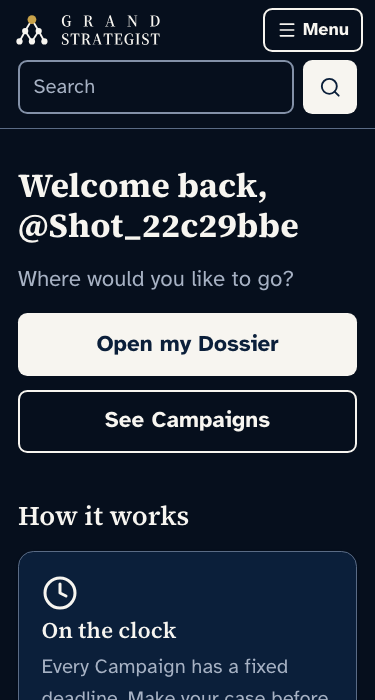
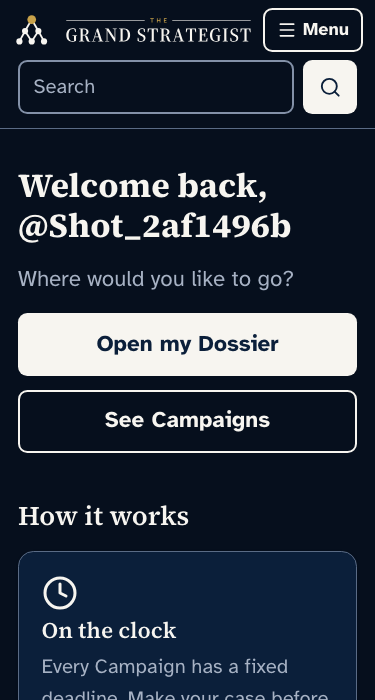
Mobile header: use the same full two-tier lockup as desktop
Sign in for visitors moves into the search row to make room. Stacked
lockup no longer used in the app.

Changed region(s): [[0.4107, 0.3, 0.792, 0.36], [0.1467, 0.0, 0.6747, 0.06], [0.0587, 0.03, 0.1173, 0.06]]

diff --git a/src/components/site-header.tsx b/src/components/site-header.tsx
@@ -28,9 +28,8 @@ export async function SiteHeader() {
       </a>
       <div className="mx-auto flex max-w-4xl items-center justify-between gap-2 px-[12px] py-[8px] lg:max-w-6xl lg:px-4 lg:py-3">
         <Link href="/" className="flex min-h-[44px] min-w-0 shrink items-center no-underline lg:min-h-12 lg:shrink-0 lg:whitespace-nowrap">
-          {/* Stacked lockup below lg (shrinks to fit narrow phones), full two-tier lockup from lg up. Only the visible one is in the accessibility tree. */}
-          <Image src="/brand/lockup-stacked.svg" alt="The Grand Strategist" width={152} height={40} priority unoptimized className="block h-[40px] w-auto max-w-full object-contain object-left lg:hidden" />
-          <Image src="/brand/lockup-full.svg" alt="The Grand Strategist" width={295} height={48} priority unoptimized className="hidden h-[34px] w-auto lg:block xl:h-[54px]" />
+          {/* The same two-tier lockup at every width; on narrow phones it shrinks to fit beside the Menu button. */}
+          <Image src="/brand/lockup-full.svg" alt="The Grand Strategist" width={295} height={48} priority unoptimized className="block h-[40px] w-auto max-w-full object-contain object-left lg:h-[34px] xl:h-[54px]" />
         </Link>
         <nav aria-label="Main" className="hidden lg:block">
           <ul className="-mx-2 flex flex-wrap items-center gap-x-1 gap-y-1">
@@ -75,11 +74,6 @@ export async function SiteHeader() {
           </ul>
         </nav>
         <div className="flex shrink-0 items-center gap-1 lg:hidden">
-          {viewer ? null : (
-            <NavLink href="/login" className="min-h-[44px] px-[8px] text-[18px]">
-              Sign in
-            </NavLink>
-          )}
           <MobileNav>
             <nav aria-label="Main">
               <ul className="flex flex-col gap-1 p-2">
@@ -122,8 +116,13 @@ export async function SiteHeader() {
           </MobileNav>
         </div>
       </div>
-      <div className="mx-auto max-w-4xl px-4 pb-3 lg:max-w-6xl">
-        <form role="search" action="/search" className="flex gap-2 lg:max-w-4xl">
+      <div className="mx-auto flex max-w-4xl items-center gap-2 px-4 pb-3 lg:max-w-6xl">
+        {viewer ? null : (
+          <NavLink href="/login" className="min-h-[44px] shrink-0 px-[8px] text-[18px] lg:hidden">
+            Sign in
+          </NavLink>
+        )}
+        <form role="search" action="/search" className="flex min-w-0 flex-1 gap-2 lg:max-w-4xl">
           <label htmlFor="site-search" className="sr-only">
             Search Campaigns, Dispatches and Strategists
           </label>

diff --git a/docs/CLAUDE_LOG.md b/docs/CLAUDE_LOG.md
@@ -44,7 +44,7 @@ Checkouts: only `TGS/` (the `TGS-sprint5/` and `TGS-legal/` worktrees were remov
 ### 2026-11-15 — Mobile menu (branch `ui/mobile-nav`, from `ui/brand-reskin`, DO NOT MERGE)
 
 - **Header only; no database, auth, Supabase or Vercel change.** Below 1024px the header links are replaced by a "Menu" button (`src/components/mobile-nav.tsx`) that opens a panel under the header; logged-out visitors keep "Sign in" visible beside it, and logged-in members' Account, Admin and Sign out are in the panel (Account does not fit beside the logo at 320px). From 1024px up nothing changed. Seven admin links no longer wrap. Behaviour: aria-expanded and aria-controls, closes on Escape (focus returns to the button), on choosing a link, on a route change and on a press outside; focus moves into the panel on open; links 54px tall; no animation.
-- **Stacked logo built here:** the "pending" stacked compact logo was not in the repo, so I made one (`lockup-01-stacked`, GRAND over STRATEGIST) in `docs/brand/` and `public/brand/lockup-stacked.svg`; replace that one file if you have a different version. The compact one-line lockup is no longer used in the app. At 320px the logo shrinks to about 95px wide beside Sign in and Menu.
+- **Same lockup on phones (owner request):** the header uses the full two-tier lockup at every width, shrinking to fit beside the Menu button (about 185px wide at 320px). The stacked variant I built earlier is kept in `docs/brand/` but not used in the app. To make room, "Sign in" for visitors moved from beside Menu into the search row (still visible without opening the menu).
 - **Tests:** new `tests/e2e/mobile-nav.spec.ts` (14 tests); mobile-width tests in `header`, `dispatches`, `campaigns`, `sign-up` and `passkey` specs now open the menu first (`openMenu` in `tests/e2e/helpers.ts`). 69 of 69 Playwright, 354 unit, lint and typecheck clean.
 
 ### 2026-11-15 — Brand re-skin 2A (branch `ui/brand-reskin`, draft PR, DO NOT MERGE)
